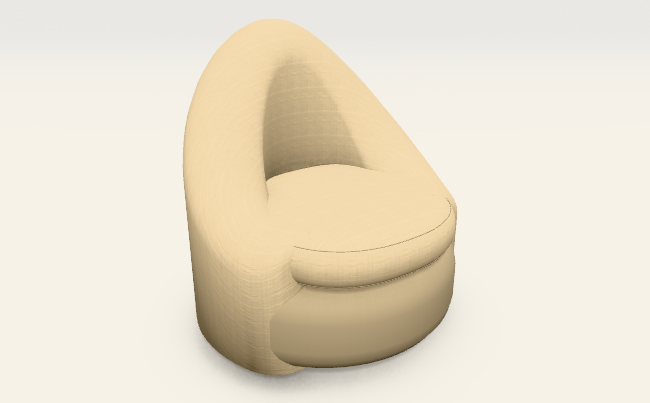
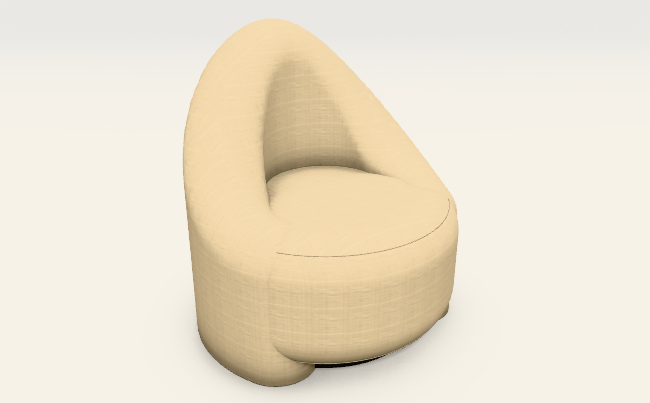
Pebble: zachte kiezel met een schaal in plaats van losse lagen
- Kuipvorm Organisch: de zitting is één zacht blok in de stof tot op
  zithoogte (geen donkere onderbouw met een los zitkussen), de schaal een
  eigen zachte vorm met ronde uiteinden in plaats van een wand die recht
  afgesneden in de onderbouw stak. Bewust twee zachte delen: een vouw
  waar de schaal tegen de zitting drukt, zoals op de productfoto.
- De schaal staat op de vloer (begint 3 cm eronder): geen rafels meer aan
  de platte onderkant.
- Alleen de 3D; prijs, offerte, boven- en vooraanzicht en de andere
  kuipfauteuils ongewijzigd (tests). Beeldvergelijking: alleen
  pebble-schuin veranderde, referentie vernieuwd.

Claude-Session: https://claude.ai/code/session_01PczewFp9M8BS44vqTSpk6u

Changed region(s): [[0.2769, 0.5062, 0.7077, 0.9826], [0.4, 0.268, 0.5846, 0.5062]]

diff --git a/packages/core/src/ruimtelijk.ts b/packages/core/src/ruimtelijk.ts
@@ -441,14 +441,25 @@ export function bouw3D(ontwerp: Ontwerp, catalogus: OntwerpCatalogus, materialen
           // samen, en dat gaf vlekken en strepen op de onderbouw (z-fighting). Bij een schelp staat de wand niet op de onderbouw.
           const krimp = kp.zwevend ? 0 : 0.8;
           const basisPlan = opb.plan.map(([x, y]) => [B / 2 + (x - B / 2) * (1 - krimp / (B / 2)), D / 2 + (y - D / 2) * (1 - krimp / (D / 2))] as Punt);
-          omtrekBlok('basis', 'stof', opb.basis.onder, opb.basis.boven - opb.basis.onder, donker, basisPlan, { afronding: kp.organisch ? 9 : 4 });
-          if (kussenDik) omtrekBlok('zitkussen', 'kussen', zithoogte - kussenDik, kussenDik, stof, opb.zit, { afronding: kp.organisch ? 6 : zacht });
+          // Organisch (Pebble): de zitting is één zachte kiezel in de stof (geen donkere onderbouw met een los kussen erop) en
+          // de schaal een eigen zachte vorm met ronde uiteinden (glad, zoals de doorlopende zetel), in plaats van een wand die
+          // recht afgesneden in de onderbouw steekt. Twee aparte zachte delen: waar de schaal tegen de zitting drukt, blijft
+          // een vouw zoals op de productfoto (de zitting is daarom een kussen). Benadering uit de foto. Prijs en tekeningen
+          // lezen dit niet.
+          const kiezel = kp.organisch && !kp.zwevend;
+          const basisBoven = kiezel ? zithoogte : opb.basis.boven;
+          omtrekBlok('basis', kiezel ? 'kussen' : 'stof', opb.basis.onder, basisBoven - opb.basis.onder, kiezel ? stof : donker, basisPlan, { afronding: kp.organisch ? 12 : 4, ...(kiezel ? { glad: true } : {}) });
+          if (kussenDik && !kiezel) omtrekBlok('zitkussen', 'kussen', zithoogte - kussenDik, kussenDik, stof, opb.zit, { afronding: kp.organisch ? 6 : zacht });
           const pad = opb.wand.pad.map(([lx, ly]) => { const w = lokaalNaarWereld(e, lx, ly, 0, 0); return [r2(w.x), r2(w.y)] as [number, number]; });
           const xs = pad.map((q) => q[0]), zs = pad.map((q) => q[1]), half = opb.wand.dikte / 2;
+          // Kiezel op een verdekte voet: de schaal staat op de vloer (zoals op de foto). Ze begint net onder de vloer, zodat
+          // haar platte onderkant niet te zien is (die gaf rafels in de zachte vorm). Alleen de 3D; het vooraanzicht niet.
+          const wandOnder = kiezel && P <= 8 ? -3 : opb.wand.onder;
           blokken.push({
             code: `${e.id}.rug`, soort: 'stof', vorm: 'kuipwand',
             x: r2(Math.min(...xs) - half), z: r2(Math.min(...zs) - half), b: r2(Math.max(...xs) - Math.min(...xs) + 2 * half), d: r2(Math.max(...zs) - Math.min(...zs) + 2 * half),
-            y: r2(opb.wand.onder), h: r2(Math.max(...opb.wand.hoogtes) - opb.wand.onder), kleur: stof, pad, hoogtes: opb.wand.hoogtes, dikte: r2(opb.wand.dikte),
+            y: r2(wandOnder), h: r2(Math.max(...opb.wand.hoogtes) - wandOnder), kleur: stof, pad, hoogtes: opb.wand.hoogtes, dikte: r2(opb.wand.dikte),
+            ...(kiezel ? { glad: true } : {}),
           });
           if (kp.zwevend) {
             // Schelp: twee houten dragers achteraan van het frame tot onder de schaal.

diff --git a/packages/core/test/modellen.test.ts b/packages/core/test/modellen.test.ts
@@ -184,3 +184,27 @@ describe('verdekte voet volgt de vorm (geen vierkante plaat onder een rond meube
     expect(zora.omtrek).toBeUndefined();
   });
 });
+
+describe('Pebble (kuipvorm organisch): zachte kiezel met een schaal, geen losse lagen', () => {
+  const blokken = (code: string) => bouw3D(structuredClone(zetelModellen.find((m) => m.code === code)!.ontwerp), zetelCatalogus, standaardMaterialen).blokken;
+  it('zitting is één zacht blok in de stof tot op zithoogte, zonder los zitkussen; de schaal is glad en staat op de vloer', () => {
+    const b = blokken('pebble');
+    const zit = b.find((x) => x.code === 'e1.basis')!, rug = b.find((x) => x.code === 'e1.rug')!;
+    expect(b.some((x) => x.code === 'e1.zitkussen')).toBe(false);
+    expect(zit.soort).toBe('kussen');
+    expect(zit.glad).toBe(true);
+    expect(zit.kleur).toBe(rug.kleur); // geen donkere onderbouw meer
+    expect(rug.vorm).toBe('kuipwand');
+    expect(rug.glad).toBe(true);
+    expect(rug.y).toBeLessThan(0); // platte onderkant onder de vloer
+  });
+  it('andere kuipfauteuils blijven zoals ze waren (donkere onderbouw, los zitkussen, wand op de onderbouw)', () => {
+    for (const code of ['tumble', 'manon', 'satie']) {
+      const b = blokken(code), basis = b.find((x) => x.code === 'e1.basis')!, rug = b.find((x) => x.code === 'e1.rug')!;
+      expect(basis.soort, code).toBe('stof');
+      expect(basis.glad, code).toBeUndefined();
+      expect(rug.glad, code).toBeUndefined();
+      expect(rug.y, code).toBeGreaterThanOrEqual(0);
+    }
+  });
+});

diff --git a/docs/overdracht.md b/docs/overdracht.md
@@ -7,7 +7,7 @@
 | Analyse en stappenplan | `docs/configurator-analyse-en-stappenplan.md` (incl. beslissingen en voortgangstabel) |
 | Onderzoek zetelconfigurators | `docs/onderzoek-zetelconfigurators.md` |
 | Fase 0-sjabloon (productkennis klant) | `docs/fase0-productkennis-meubels.md`, nog in te vullen met de klant |
-| Motor (`packages/core`) | Klaar voor demo: formules, regels, prijstabellen, korting, stuklijst, materialen, vrij ontwerp met opties, vormgeving (ontwerpmodus), vooraanzicht, 3D-opbouw, collectie van 42 modellen, opzet-elementen, catalogus-controle, vrije hoogtes. Daarnaast voor de bouw: raam/deur-model, plattegrond (`plattegrond.ts`, `plattegrondsvg.ts`), gevels en gevelmaterialen (`gevels.ts`), offerte met posities (`offerte.ts`) en de maatlijstlezer (`voorbeelden/maatlijst.ts`). Echte 3D-modellen als proef (`echt3d.ts`), zachte vormen (`zachtevorm.ts`) en de doorlopende opbouw (`doorlopend.ts`), zie hieronder. **244 tests groen.** |
+| Motor (`packages/core`) | Klaar voor demo: formules, regels, prijstabellen, korting, stuklijst, materialen, vrij ontwerp met opties, vormgeving (ontwerpmodus), vooraanzicht, 3D-opbouw, collectie van 42 modellen, opzet-elementen, catalogus-controle, vrije hoogtes. Daarnaast voor de bouw: raam/deur-model, plattegrond (`plattegrond.ts`, `plattegrondsvg.ts`), gevels en gevelmaterialen (`gevels.ts`), offerte met posities (`offerte.ts`) en de maatlijstlezer (`voorbeelden/maatlijst.ts`). Echte 3D-modellen als proef (`echt3d.ts`), zachte vormen (`zachtevorm.ts`) en de doorlopende opbouw (`doorlopend.ts`), zie hieronder. **246 tests groen.** |
 | Klikbare demo (`packages/demo-web`) | Tabbladen: Modellen · Sofa op maat · Vrij ontwerp (tekenen in boven- én vooraanzicht, verplaatsen, vrije hoogtes, 3D, ontwerpmodus, rugleuningen en kussens) · Kast op maat · Materialen · **Catalogus** (editor: elementen, opties, modellen, delen) |
 | Huisstijl klant | `npm run build -w @configurator/demo-web` maakt ook `dist/configurator-corneille-silence.html` (stijl van hun website). **Niet publiek publiceren**: alleen als bestand aan de gebruiker. |
 | Doorsturen (offline) | De build maakt ook `dist/*-offline.html`: één bestand met 3D-bibliotheek, lettertypes en foto's ingebakken, werkt zonder internet. Eerst `python3 -I packages/demo-web/scripts/haal_lettertypes.py` en `haal_fotos.py` (niet in git). Zip met LEES MIJ: `obsidian-export/Configurator Corneille & Silence.zip`. |
@@ -22,6 +22,7 @@
 | **Overstap naar WebGPU (4/11)** | Na de proeven (verslag `docs/proeven/3d-motor-proeven-0411.md`) alles samengevoegd: weefselkaarten, glas met transmission, scherpere omgeving en de lichtsfeer *Fotostudio* (HDRI, CC0), fotomodus op WebGPU met ontruiser. Daarna de hele 3D (zeteldemo en bouwdemo) op `WebGPURenderer`:<br>• WebGPU waar de browser het heeft (de M5 in de toonzaal: Safari 27.2, adapter Apple, shader-f16), anders automatisch WebGL2 met hetzelfde beeld;<br>• schaduw in hoeken (kwaliteit *Mooi*) opnieuw gebouwd met de nabewerking van WebGPU (TSL: GTAO + ontruisen);<br>• fotomodus: WebGPU-path tracer met ontruiser, anders de oude op een tijdelijke WebGL-renderer;<br>• beelden van het canvas via `viewer.beeld()` (offerte); de slagschaduw is zachter dan vroeger (VSM van WebGPU).<br>• **Getest:** alleen de WebGL2-weg (in de cloud is er geen WebGPU): vijf zetels, woning en raam tegenover de vorige versie, *Snel* en *Mooi*, fotomodus en offerte. **WebGPU zelf nog te testen op de M5.** Pagina ±6,4 MB (HDRI 2,2 MB en WebGPU-onderdelen). |
 | **Schaduw volgt de vorm (5/11)** | Melding van Jonas: "De schaduw volgt niet de vorm van het object." Twee oorzaken gevonden (ook al vóór WebGPU):<br>• de contactschaduw onder de zetel was een rechthoek per onderdeel (ronde poef: vierkante schaduw; Doha: rechthoekige vlek voorbij de ronde uiteinden). Nu de echte grondvorm per onderdeel;<br>• de verdekte voet was altijd vierkant en stak onder ronde fauteuils (Pebble) uit: een harde, zwarte plaat. Nu dezelfde vorm als het meubel, 10 cm naar binnen.<br>• Prijs, offerte, boven- en vooraanzicht ongewijzigd. Getest op de WebGL2-weg (Doha, Kotor, Pebble, Stockholm). **Nog na te kijken op de M5:** de zonneschaduw via WebGPU (VSM); ziet die er nog verkeerd uit, dan een schermafbeelding met model en toestel. |
 | **Gratis hulpmiddelen en beeldvergelijking (5/11)** | Advies over gratis hulpmiddelen in `docs/3d-technieken.md` (Material Maker, DeepBump, Real-ESRGAN, HDRI's; in three.js: SSS, TRAA, SSGI, SSR, Inspector).<br>• **Getest, niet opgenomen:** fijne contactschaduw (SSS) en TRAA bij *Mooi*: geen zichtbare winst, wel extra rekenwerk (beeld `docs/afbeeldingen/proef-sss-traa.jpg`, verslag in `docs/proeven/3d-motor-proeven-0411.md`).<br>• **Nieuw:** `npm run beelden`: vaste reeks van 10 beelden (zetels, poef, woning, raam) tegenover de referentie in `beeldtest/referentie/`, verschil in het rood (`beeldtest/LEESMIJ.md`). Proef: de fout van vandaag (vierkante voet) tijdelijk teruggezet en gemeld.<br>• Texturen van vloer, wand en hout met een vaste toevalsreeks: hetzelfde parket bij elke keer laden.<br>• Volgende stap volgens het advies: stoffen maken met Material Maker en DeepBump; SSGI als proef op de M5. |
+| **Pebble afgewerkt (5/11)** | Melding: "de vormen lopen door elkaar". De zitting is nu één zachte kiezel in de stof (geen donkere onderbouw met los kussen), de schaal een eigen zachte vorm met ronde uiteinden die op de vloer staat; een zachte vouw waar ze tegen elkaar drukken, zoals op de foto. Alleen kuipvorm *Organisch*; prijs, offerte, boven- en vooraanzicht ongewijzigd. Beeldvergelijking: alleen `pebble-schuin` veranderde (6,5 %), de 9 andere bleven 0,00 %. Uitleg en beeld in `docs/zachte-vormen.md`. 246 tests. |
 | **3D-kennisbank en advies ramen en deuren (4/11)** | `docs/3d-technieken.md` (in Obsidian: *3D-technieken - kennisbank*):<br>• alle 3D-technieken op een rij (blokken, eigen doorsnede, zachte vormen, doorlopende opbouw, boog, echt 3D-bestand, weergave, snelheid): wat ze doen, waarvoor wel en niet, rekentijd, waar in de code;<br>• de lessen (eigen vorm per type, eerst de opbouw, grote foto's van de productpagina, vergelijkingsbeeld, benaderingen markeren, 3D-keuze kan de prijs raken);<br>• een werkwijze voor een nieuw model of product;<br>• **advies ramen en deuren** (vraag: "is deze techniek voor 3D bruikbaar voor ramen en deuren?", nog niet gebouwd): de zachte vormen niet; wel een eigen doorsnede per profielsysteem (verstek, doorsnedetekening, rondboog; DXF van de leverancier), echte 3D-bestanden voor krukken en trekbeugels; de weergave is al gedeeld. |
 | **Doorlopende zetel: Doha en Montego (4/11)** | Melding: "Montego en Doha zien er in de 3D identiek uit" en "groot verschil qua opbouw" met de foto; daarna "we maken progressie maar is nog niet af". Oorzaak: beide waren losse elementen naast elkaar; op de foto's (de grote van de productpagina's) is elk één doorlopende zetel.<br>• **Nieuw in de vormgeving van de zetel:** *Opbouw in 3D* (*Per element* of *Doorlopend (één zetel)*) en *Boog bij doorlopend* (0–60 cm, de uiteinden naar voren). Motor: `core/src/doorlopend.ts`.<br>• **Doorlopend:** met losse zitkussens twee ronde banden (zitting rondom, onderbouw 3 cm terug, diepe naad), met een vaste zitting één ronde vorm; één rug langs de achterkant. Bij een afgerond uiteinde volgt de rug *Rug bij de ronde kant*: *rond* = korte omloop als armleuning op volle hoogte (tot ±32 % van de diepte), *recht* = de rug stopt met een ronde kop ±40 % van het eindelement ver en de zitting loopt verder. Een dieper element loopt vloeiend over in de rest (1,6 × het diepteverschil aan elke kant, 25–70 cm). Onderbouw en rug zijn één zachte vorm, ook bij *Blokken*.<br>• **Doha:** loungedeel links 145 cm diep, zitting 22 cm, armleuningen aan beide kanten, oranje en lichtgrijs sierkussen. **Montego:** vaste zitting, rug aan beide kanten alleen op het rechte deel, boog van 30 cm. Allemaal benaderingen uit de foto's.<br>• **Schaduw:** buren met een vrije omtrek (zitkussen) of gebogen wand tellen nu met hun echte vorm (vroeger als doos rond hun kader: grijze vlekken waar niets staat); het zitkussen krijgt schaduw van de rug.<br>• **Rekenen:** in de achtergrond (eerst de gewone vorm), ±0,3–0,7 s; tabellen in het grondvlak voor lange omtrekken en wanden (2 à 3 × sneller).<br>• **Blijft per element:** prijs, offerte, boven- en vooraanzicht (de boog alleen in 3D). Let op: de offerte toont dus in 3D één zetel en in de tekeningen de losse elementen. Alleen een rechte rij: bij een hoeksofa doet alleen de langste rechte rij mee (niet getest).<br>• Beeld: `docs/afbeeldingen/doorlopende-zetel.jpg`; uitleg in `docs/zachte-vormen.md`. |
 | **Strakke arm met eigen vorm (4/11)** | Na de zachte vormen: de strakke arm (16 van de 21 modellen met armen) is een eigen doorsnede (`strakProfiel` in `ruimtelijk.ts`), in alle weergaven en in het vooraanzicht.<br>• **Vorm:** zacht afgeronde, licht bolle bovenkant, licht bolle zijkanten, een voorpaneel met afgeronde rand dat in het midden bol staat; hoe zacht volgt de zachtheid van het model. Met een hoes loopt de arm tot op de vloer (Husk).<br>• **Naad of bies rond het voorpaneel** van elke arm met een eigen vorm (ook Wallace), volgens *Naden*.<br>• **Sneller:** grote zetels (meer dan 3 m³) met een raster van 2,5 cm bij *Zacht*; ±0,2–0,7 s per sofa.<br>• **Nog als balk:** rolarm, Engels, schuin, met houten blad, en de rug en onderbouw.<br>• Beeld: `docs/afbeeldingen/strakke-arm.jpg`; uitleg in `docs/zachte-vormen.md`. |

diff --git a/docs/zachte-vormen.md b/docs/zachte-vormen.md
@@ -55,9 +55,9 @@ Wat het Glam-model echter maakt dan onze blokken:
    - **Vooraanzicht:** de tekening (modelkaart, offerte) toont dezelfde vorm.
 
    ![Strakke arm: foto, vorige versie, nu met blokken en zacht](afbeeldingen/strakke-arm.jpg)
-4. **Ronde vormen blijven zoals ze waren.** Kuipfauteuils (Pebble, Ross, Karl …) en het afgeronde eindelement in een
+4. **Ronde vormen blijven zoals ze waren.** Kuipfauteuils (Ross, Karl …) en het afgeronde eindelement in een
    eigen ontwerp waren al rond getekend. Samengesmolten gaven ze in de proef foutjes aan de randen, dus die delen smelten
-   niet mee. Doha en Montego zijn wel aangepast: zie het volgende hoofdstuk.
+   niet mee. Doha en Montego zijn wel aangepast: zie het volgende hoofdstuk. Pebble ook (5/11, zie onder).
 
 ## Doorlopende zetel: Doha en Montego (4/11, derde ronde)
 
@@ -169,3 +169,24 @@ De motor gebruikt dezelfde werkwijze als 3D-programma's (*afstandsvelden* en *su
 2. **Sneller rekenen:** in de achtergrond rekenen, zodat het scherm niet stilstaat.
 3. **Daarna kiezen:** *Zacht* standaard aan, als het op een tablet vlot genoeg is.
 4. **Stap 2 voor topmodellen:** een 3D-bestand per model (zie `echte-3d-modellen.md`).
+
+## Pebble: zachte kiezel met een schaal (5/11)
+
+Melding van Jonas: "de vormen lopen door elkaar". Pebble (kuipvorm *Organisch*) bestond uit drie losse delen: een
+donkere onderbouw, een lichter zitkussen met een uitstekende rand, en een schaal die vooraan recht afgesneden in de
+onderbouw stak. Op de productfoto is de zitting één zachte kiezel in één kleur, met een hoge schaal die eromheen loopt
+tot op de vloer.
+
+Nu (alleen bij *Organisch*, in `ruimtelijk.ts`):
+- de zitting is één zacht blok in de stof, van de voet tot op zithoogte (kussen, `glad`), zonder los zitkussen;
+- de schaal is een eigen zachte vorm (`glad`) met ronde uiteinden. Zitting en schaal smelten bewust **niet** samen: dan
+  werd het één klomp. Apart blijft er een zachte vouw waar de schaal tegen de zitting drukt, zoals op de foto;
+- de schaal staat op de vloer: ze begint 3 cm onder de vloer, zodat haar platte onderkant (die rafels gaf) niet te zien
+  is.
+
+Prijs, offerte, boven- en vooraanzicht veranderen niet. Andere kuipfauteuils (Tumble, Manon, Satie …) blijven zoals ze
+waren. Benadering uit één kleine foto (400 px): de schaal lijkt op de foto iets scheef (hoger aan één kant); dat is niet
+nagebootst.
+
+![Pebble: vóór, na, de productfoto en een detail](afbeeldingen/pebble-kiezel.jpg)
+

diff --git a/.claude/skills/zetel-3d/SKILL.md b/.claude/skills/zetel-3d/SKILL.md
@@ -180,6 +180,7 @@ Lees opties via `gekozenOpties(ontwerp, catalogus, e)` en `te(groep, veld, stand
 ## Valkuilen
 - Vergeet de rotatie niet: test elke nieuwe vorm bij 0, 90, 180 en 270.
 - Vooraanzicht: achterste elementen eerst tekenen (sortering op voorrand), anders bedekken ze de voorste.
+- Kuipvorm *Organisch* (Pebble, 5/11): `kiezel` in `ruimtelijk.ts`: `e1.basis` = één zacht blok (soort `kussen`, `glad`, stofkleur) van P tot zithoogte, geen `zitkussen`; `e1.rug` = kuipwand `glad` (eigen zachte vorm, ronde uiteinden uit de capsule) die bij P ≤ 8 op y = −3 begint (platte onderkant onder de vloer, anders rafels). Zitting en schaal bewust in aparte groepen (kussen vs stof): samen gaf één klomp zonder vouw. `kuipOpbouw` en het vooraanzicht ongewijzigd.
 - Ronde elementen: poten en verdekte voet naar binnen zetten, anders steken ze buiten de ronding uit. Sinds 5/11 krijgt de verdekte voet onder een staande cilinder (ronde poef) of een blok met `omtrek` (kuipfauteuil) dezelfde vorm, 10 cm naar binnen (`ruimtelijk.ts`, na de opbouw van het element; niet bij `rond`, dat heeft `verdekt-rond`). Het vooraanzicht blijft een rechthoek.
 - Contactschaduw (`zetContactschaduw` → `tekenGrondvorm` in `drie-d.ts`): per blok onder 25 cm de echte grondvorm op een canvas (omtrek, ellips voor staande cilinder/kegel, `roundRect` met afronding, `draai` rond het midden, kuipwand als dikke lijn langs `pad`, profiel als strook over het onderste deel van de doorsnede), vervaagd via `shadowBlur` met de vorm 2000 px links buiten beeld. Nooit terug naar het kader per blok.
 - Prijs en tekening los houden: de tekening leest `teken`, de prijs leest `prijs/prijsPerM/pct`.
